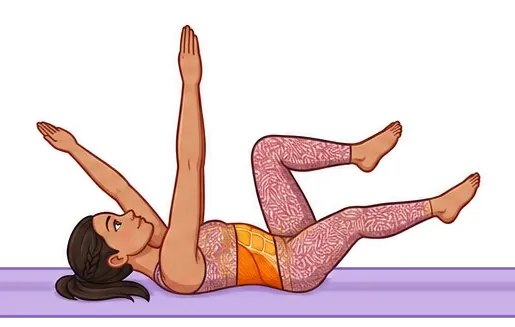
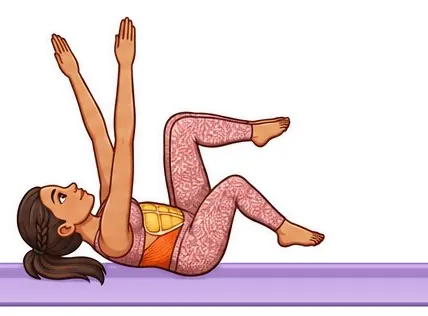
Dead bug: nueva animación de 5 fotogramas con progresión continua del brazo y la pierna opuestos
Cámara lateral elevada para que ambos brazos y piernas se vean en todos los fotogramas.
Brazo lejano 0/22/45/65/90° hacia atrás mientras la pierna cercana se estira; flechas desactivadas.

Claude-Session: https://claude.ai/code/session_01LTdatG86hVzh7JFC7J2E3b

diff --git a/docs/data/arrows.js b/docs/data/arrows.js
@@ -76,8 +76,8 @@ export const ARROWS = {
     m: [[{"from":[0.738,0.446],"to":[0.674,0.329],"curve":0.45},{"from":[0.187,0.451],"to":[0.214,0.322],"curve":-0.45}]],
   },
   'dead-bug': {
-    f: [[{"from":[0.609,0.604],"to":[0.798,0.703],"curve":-0.35}],[{"from":[0.767,0.689],"to":[0.75,0.789],"curve":0.2}]],
-    m: [[{"from":[0.786,0.372],"to":[0.819,0.72],"curve":0.12}],[{"from":[0.834,0.686],"to":[0.812,0.8],"curve":0.2}]],
+    f: [[{"from":[0.265,0.253],"to":[0.097,0.293],"curve":-0.45},{"from":[0.505,0.566],"to":[0.671,0.729],"curve":-0.12}],[{"from":[0.305,0.281],"to":[0.391,0.273],"curve":0.45}]],
+    m: [[{"from":[0.276,0.274],"to":[0.342,0.345],"curve":0.45}],[{"from":[0.331,0.336],"to":[0.394,0.369],"curve":-0.12}]],
   },
   'donkey-kick': {
     f: [[{"from":[0.33,0.659],"to":[0.198,0.311],"curve":-0.2},{"from":[0.591,0.748],"to":[0.757,0.761],"curve":-0.35}]],

diff --git a/docs/data/anim.js b/docs/data/anim.js
@@ -15,7 +15,7 @@ export const ANIM = {
   'face-pull': { n: 4 },
   'floor-press': { n: 4 },
   'band-external-rotation': { n: 4, pos: [0, 2, 3] },
-  'dead-bug': { n: 4, pos: [0, 2, 3] },
+  'dead-bug': { n: 5, pos: [0, 2, 4] },
   'ring-adductor-lift': { n: 4 },
   'kneeling-hip-flexor': { n: 4 },
   'figure-4': { n: 4 },
